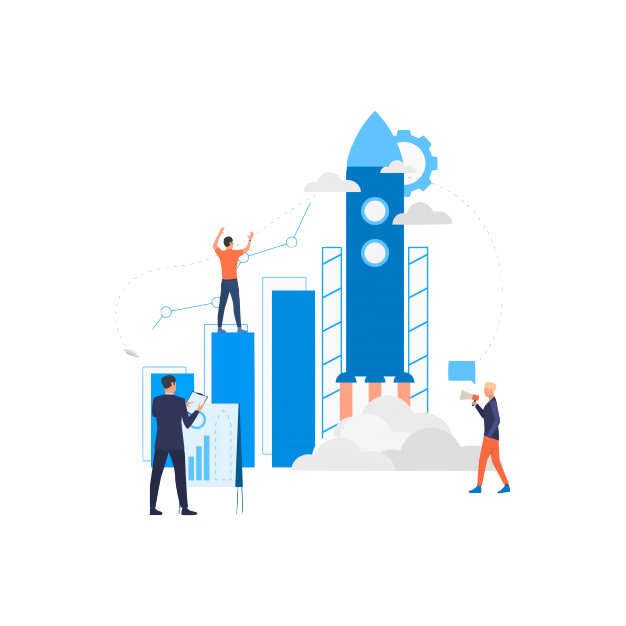
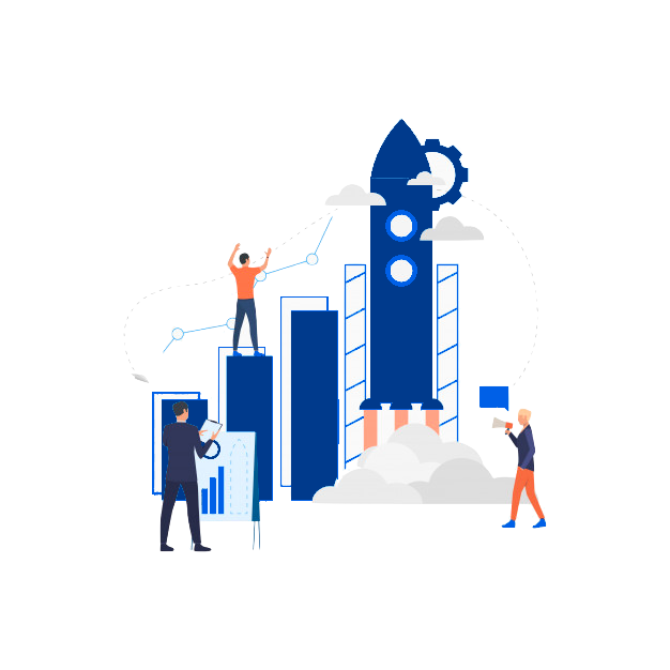
restyle

diff --git a/src/app/components/header/header.component.html b/src/app/components/header/header.component.html
@@ -1,5 +1,27 @@
 <nz-header style="padding: 0 10vw;" nz-row nzType="flex" nzJustify="space-between" nzAlign="middle">
-    <div [routerLink]="['/dashboard']" nz-title class="app-name"></div>
+        <svg data-v-423bf9ae="" xmlns="http://www.w3.org/2000/svg" viewBox="0 0 412 90" class="iconLeft app-name" [routerLink]="['/dashboard']">
+            <!---->
+            <!---->
+            <!---->
+            <g data-v-423bf9ae="" id="7f5189d3-e1ce-4852-92f1-09fdf3b522bc" fill="#ffffff"
+                transform="matrix(6.109979823280842,0,0,6.109979823280842,108.62275371831535,-17.993893058921103)">
+                <path
+                    d="M8.11 5.87C8.06 5.82 7.13 5.53 6.97 5.53C6.20 5.53 5.00 9.80 4.98 9.80C4.87 10.18 4.70 10.68 4.56 10.89C4.34 10.63 4.17 10.35 4.05 10.08C3.68 9.31 3.23 8.53 2.94 7.77C2.69 7.14 2.52 6.20 2.35 5.78C2.27 5.57 1.36 5.49 1.15 5.49C1.04 5.49 0.67 5.54 0.48 5.59L0.48 5.82C0.48 6.38 2.76 11.66 2.84 11.86C3.01 12.22 3.30 12.73 3.42 12.96C3.56 13.26 4.16 15.19 4.56 15.19C4.90 15.19 5.95 11.56 6.08 11.20C6.30 10.61 6.79 9.28 7.07 8.57C7.45 7.62 7.80 6.76 8.11 5.87ZM13.79 12.36C13.19 12.39 12.38 12.29 11.84 12.32C12.29 11.52 12.35 10.61 12.74 9.72C12.95 10.14 13.16 10.67 13.29 11.09C13.41 11.48 13.61 11.94 13.79 12.36ZM16.69 15.12C15.68 12.84 14.99 10.79 14.29 8.89C14.08 8.34 13.66 7.60 13.52 7.21C13.37 6.80 13.29 6.27 13.12 5.91C13.05 5.75 12.85 5.53 12.74 5.47C12.50 6.03 12.25 6.71 12.05 7.11C11.73 7.78 11.17 8.65 11.06 9.03C10.51 10.77 9.77 13.38 8.90 15.12L10.71 15.12C10.89 14.76 10.85 14.22 11.17 14.03C11.62 13.75 12.67 14 14.46 13.96C14.59 14.34 14.76 14.80 14.97 15.12L16.69 15.12ZM22.60 15.22C22.55 14.13 22.50 13.78 22.50 13.50C22.32 13.54 22.06 13.58 21.97 13.58C21.85 13.58 21.04 13.50 20.94 13.50C20.82 13.50 19.89 13.58 19.78 13.58C19.68 13.58 19.24 13.65 19.19 13.43C19.11 12.98 19.14 12.29 19.14 12.19C19.14 12.08 19.28 10.79 19.28 10.70L19.28 9.31C19.28 9.20 19.07 7.04 18.98 5.95C18.98 5.85 18.89 5.74 18.86 5.71C18.79 5.67 18.10 5.52 17.84 5.52C17.61 5.52 17.36 5.59 17.36 5.84C17.36 5.94 17.46 6.01 17.46 6.03C17.46 6.40 17.46 6.87 17.50 7.18L17.54 10.46C17.54 11.83 17.57 13.20 17.53 14.56C17.53 14.69 17.54 14.88 17.56 15.02C17.61 15.13 18.20 15.22 18.41 15.22C18.52 15.22 21.22 15.22 22.60 15.22ZM25.31 13.10C25.31 12.99 25.17 9.32 25.17 9.21L25.17 7.56C25.17 7.45 25.10 7.20 25.09 7.03C25.06 6.73 25.16 6.29 25.16 6.03C25.16 5.85 25.13 5.61 25.17 5.47C24.40 5.52 24.04 5.52 23.74 5.47C23.70 5.50 23.63 5.61 23.63 5.67C23.63 6.48 23.76 7.29 23.70 8.06C23.66 8.83 23.52 9.66 23.55 10.43C23.55 10.68 23.65 11.05 23.62 11.28C23.56 11.79 23.45 12.68 23.45 12.77C23.45 12.88 23.58 13.47 23.62 13.83C23.66 14.15 23.59 14.60 23.65 14.94C23.95 15.18 24.19 15.18 24.54 15.18C24.65 15.18 25.02 15.16 25.21 15.12C25.31 14.43 25.31 13.20 25.31 13.10ZM31.72 9.62C31.72 9.72 31.61 10.21 31.61 10.46C31.61 11.30 31.42 11.87 30.81 12.43C30.25 12.95 29.23 13.37 28.04 13.45C28.01 13.10 27.86 8.60 27.86 7.94C27.86 7.84 27.96 7.32 28.06 6.99C29.26 7.38 30.73 7.52 31.53 8.57C31.71 8.81 31.72 9.34 31.72 9.62ZM33.38 10.71C33.38 8.34 32.23 6.16 28.85 5.70C28.35 5.63 27.50 5.40 26.59 5.40C26.47 5.40 26.43 5.46 26.40 5.50C26.29 6.09 26.17 7.20 26.17 7.29C26.17 7.41 26.47 11.28 26.47 11.40C26.47 13.51 26.21 14.31 26.21 14.56L26.21 15.06L28.76 15.06C28.87 15.06 29.89 14.78 30.24 14.69C33.11 13.90 33.38 12.46 33.38 10.71ZM40.92 5.67C39.77 5.60 37.66 5.46 37.55 5.46C37.44 5.46 35.38 5.66 34.34 5.78C34.34 6.19 34.24 6.96 34.24 7.06C34.24 7.17 34.37 11.28 34.41 13.36C34.41 13.79 34.27 14.62 34.30 15.02C34.34 15.06 34.36 15.12 34.43 15.16L40.85 15.16L40.85 14.92C40.85 14.81 40.74 14.70 40.73 14.60C40.70 14.34 40.71 14.03 40.66 13.83C40.49 13.79 40.29 13.73 40.15 13.73C38.18 13.65 37.32 13.73 37.21 13.73C37.13 13.73 36.09 13.65 35.91 13.48C36.29 10.79 35.62 11.03 37.81 11.03C37.93 11.03 39.16 11.21 39.27 11.21L40.61 11.21C40.80 11.09 40.81 10.54 40.81 10.35C40.81 10.23 40.81 9.87 40.75 9.67L40.80 9.62C39.62 9.67 38.78 9.69 38.67 9.69C38.56 9.69 37.48 9.60 37.37 9.60C37.25 9.60 36.32 9.73 36.20 9.73C36.12 9.73 35.87 9.59 35.87 9.42C35.87 9.31 35.95 9.25 35.95 9.17C35.97 8.61 35.97 7.83 36.08 7.27C36.81 7.04 36.93 7.08 37.44 7.08L40.18 7.17C41.22 7.17 40.87 6.97 40.92 5.67ZM46.65 12.36C46.05 12.39 45.23 12.29 44.70 12.32C45.15 11.52 45.21 10.61 45.60 9.72C45.81 10.14 46.02 10.67 46.14 11.09C46.27 11.48 46.47 11.94 46.65 12.36ZM49.55 15.12C48.54 12.84 47.85 10.79 47.15 8.89C46.94 8.34 46.52 7.60 46.38 7.21C46.23 6.80 46.14 6.27 45.98 5.91C45.91 5.75 45.71 5.53 45.60 5.47C45.36 6.03 45.11 6.71 44.91 7.11C44.59 7.78 44.03 8.65 43.92 9.03C43.37 10.77 42.63 13.38 41.76 15.12L43.57 15.12C43.75 14.76 43.71 14.22 44.03 14.03C44.48 13.75 45.53 14 47.32 13.96C47.45 14.34 47.61 14.80 47.82 15.12L49.55 15.12Z">
+                </path>
+            </g>
+            <!---->
+            <g data-v-423bf9ae="" id="71b79b49-f62b-43e4-8219-807bcd00ceac"
+                transform="matrix(1.1111111111111112,0,0,1.1111111111111112,-9.755552079942497,-10.055555555555557)"
+                stroke="none" fill="#ffffff">
+                <path
+                    d="M68.6 36.5c-.4 0-.8-.2-1.1-.4L63 31.5c-.6-.6-.6-1.5 0-2.1.6-.6 1.5-.6 2.1 0l2.9 2.9 5.8-13.9c.3-.8 1.2-1.1 2-.8.8.3 1.1 1.2.8 2l-6.6 16c-.2.5-.6.8-1.1.9h-.3zM50.1 79.6l-10.7-33c3.6-2.9 5.9-7.3 5.9-12.3 0-8.7-7.1-15.8-15.9-15.8s-15.9 7.1-15.9 15.8c0 5 2.3 9.4 5.9 12.3l-10.5 33c0 .1-.1.3-.1.5 0 5.8 9.1 10.4 20.7 10.4s20.7-4.6 20.7-10.4c-.1-.2-.1-.3-.1-.5zM16.6 34.3c0-7 5.8-12.8 12.9-12.8s12.9 5.7 12.9 12.8c0 7-5.8 12.8-12.9 12.8s-12.9-5.8-12.9-12.8zm12.9 53.2c-10.2 0-17.4-3.8-17.6-7.2l10.3-32c2.2 1.1 4.7 1.8 7.3 1.8 2.6 0 5.1-.7 7.3-1.8l10.3 32c-.3 3.4-7.4 7.2-17.6 7.2z">
+                </path>
+                <path
+                    d="M49.5 49.1c-.5 0-1.1-.3-1.3-.8-.3-.5-.2-1.2.1-1.6l6.1-7.7c-4.1-3.2-6.4-7.6-6.4-12.3 0-9.5 9.7-17.2 21.6-17.2 11.9 0 21.6 7.7 21.6 17.2 0 18.5-39.8 22.2-41.5 22.4h-.2zm20.1-36.6C59.4 12.5 51 18.9 51 26.8c0 4.1 2.3 8 6.4 10.8.3.2.6.6.6 1 .1.4 0 .8-.3 1.2l-4.8 6c3.8-.5 10-1.6 16.2-3.5 8.6-2.6 19-7.5 19-15.5.1-7.9-8.3-14.3-18.5-14.3z">
+                </path>
+            </g>
+            <!---->
+        </svg>
     <a *ngIf="!getToken(); else loggedTemplate" href="https://mvp-validator.herokuapp.com/auth/google/">
         <button nz-button style="background-color: #d62d20; display: flex; align-items: center;">
             <i style="color: whitesmoke; margin-right: -8px;" nz-icon nzType="google-plus" nzTheme="outline"></i>

diff --git a/src/theme.less b/src/theme.less
@@ -6,12 +6,12 @@
 @html-selector: html;
 
 // -------- Colors -----------
-@primary-color: @blue-6;
-@info-color: @blue-6;
+@primary-color: @blue-9;
+@info-color: @blue-9;
 @success-color: @green-6;
-@processing-color: @blue-6;
-@error-color: @red-6;
-@highlight-color: @red-6;
+@processing-color: @blue-9;
+@error-color: @red-8;
+@highlight-color: @red-8;
 @warning-color: @gold-6;
 @normal-color: #eeeeee;
 @white: #fff;
@@ -36,9 +36,9 @@
 // ---
 
 // Background color for `<body>`
-@body-background: #fff;
+@body-background: whitesmoke;
 // Base background color for most components
-@component-background: #fff;
+@component-background: whitesmoke;
 @font-family: -apple-system, BlinkMacSystemFont, 'Segoe UI', 'PingFang SC', 'Hiragino Sans GB',
 'Microsoft YaHei', 'Helvetica Neue', Helvetica, Arial, sans-serif, 'Apple Color Emoji',
 'Segoe UI Emoji', 'Segoe UI Symbol';
@@ -246,7 +246,7 @@
 
 // Layout
 @layout-body-background: #f0f2f5;
-@layout-header-background: #1890ff;
+@layout-header-background: @blue-9;
 @layout-footer-background: @layout-body-background;
 @layout-header-height: 64px;
 @layout-header-padding: 0 50px;

diff --git a/src/app/components/main/main.component.html b/src/app/components/main/main.component.html
@@ -3,8 +3,8 @@
 <div class="main-wrapper">
     <nz-content class="main-content">
         <div nz-row>
-            <div class="text-wrapper" nz-col nzXs="24" nzSm="24" nzMd="24" nzLg="10" nzXl="10">
-                <h1 nz-title>
+            <div class="text-wrapper" nz-col nzXs="24" nzSm="24" nzMd="24" nzLg="12" nzXl="12">
+                <h1 nz-title class="main-title">
                     Validate your idea
                 </h1>
                 <div nz-text nzType="secondary" class="description">
@@ -19,9 +19,8 @@
                     In less then 15 mins
                 </div>
                 <br>
-                <button nz-button nzType="primary" [routerLink]="['/theme']">Get started</button>
+                <button nz-button nzType="primary" class="main-action-button" [routerLink]="['/theme']">Get started</button>
             </div>
-            <div nz-col nzXs="0" nzSm="0" nzMd="0" nzLg="2" nzXl="2"></div>
             <div class="main-image" nz-col nzXs="24" nzSm="24" nzMd="24" nzLg="12" nzXl="12"></div>
         </div>
     </nz-content>

diff --git a/src/app/components/customer-dashboard/customer-dashboard.component.scss b/src/app/components/customer-dashboard/customer-dashboard.component.scss
@@ -16,9 +16,9 @@
     padding: 10px;
     margin-right: 5px;
     font-size: 40px;
-    border: 2px #1890ff solid;
+    border: 2px #003a8c solid;
     border-radius: 50%;
-    color: #1890ff;
+    color: #003a8c;
   }
   .secondary-header-secondary-text {
     font-size: 11px;
@@ -32,7 +32,7 @@
     line-height: 1.1;
     margin: 0;
     font-weight: 300;
-    color: #1890ff;
+    color: #003a8c;
   }
 }
 
@@ -48,8 +48,8 @@
   .secondary-navigation-item {
     height: 145px;
     width: 145px;
-    border: 1px #1890ff solid;
-    color: #1890ff;
+    border: 1px #003a8c solid;
+    color: #003a8c;
     background-color: #fff;
   }
 
@@ -57,7 +57,7 @@
     cursor: pointer;
     color: #fff;
     border: 1px #fff solid;
-    background-color: #1890ff;
+    background-color: #003a8c;
   }
 }
 

diff --git a/src/app/components/project-management/project-management.component.html b/src/app/components/project-management/project-management.component.html
@@ -29,7 +29,7 @@
                 <input [formControl]="colorControl" style="height: 0; width: 0; visibility: hidden;" #colorPickerInput
                     [(colorPicker)]="composedProject.theme" (colorPickerChange)="changeColor($event)"
                     [cpPosition]="'bottom'" [cpOutputFormat]="'hsla'" />
-                <i style="cursor: pointer; margin-left: 10px; color: #1890ff" (click)="colorPickerInput.click()" nz-icon
+                <i style="cursor: pointer; margin-left: 10px; color: #003a8c" (click)="colorPickerInput.click()" nz-icon
                     nzType="bg-colors" nzTheme="outline"></i>
             </nz-descriptions-item>
             <nz-descriptions-item nzTitle="Title">

diff --git a/src/app/components/project-setup/project-setup.component.html b/src/app/components/project-setup/project-setup.component.html
@@ -105,7 +105,7 @@
                                         [(colorPicker)]="customColorScheme" [cpPosition]="'bottom'"
                                         [cpOutputFormat]="'hsl'" />
                                 </div>
-                                <i style="cursor: pointer; color: #1890ff;" (click)="colorPickerInput.click()" nz-icon
+                                <i style="cursor: pointer; color: #003a8c;" (click)="colorPickerInput.click()" nz-icon
                                     nzType="bg-colors" nzTheme="outline"></i>
                             </div>
                         </nz-card>

diff --git a/src/app/components/main/main.component.scss b/src/app/components/main/main.component.scss
@@ -11,15 +11,25 @@
   padding-top: 100px;
 }
 
+.main-title {
+  font-size: $main-title-text;
+}
+
 .description {
   line-height: 35px;
-  font-size: $main-text;
+  font-size: $main-text-bigger;
+}
+
+.main-action-button {
+  width: 150px;
+  height: 50px;
+  font-size: $main-text-bigger;
 }
 
 .main-image {
   height: 70vh;
   background-image: url("../../../assets/images/main_image.png");
-  background-size: contain;
+  background-size: cover;
   background-repeat: no-repeat;
   background-position: center;
 }

diff --git a/src/app/components/header/header.component.scss b/src/app/components/header/header.component.scss
@@ -1,13 +1,8 @@
 @import "../../../styles.scss";
 
 .app-name {
-  background-image: url("../../../assets/images/cover.png");
-  background-size: cover;
-  background-repeat: no-repeat;
-  background-position: center;
   height: 100%;
-  width: 200px;
-  margin-left: -30px;
+  width: 165px;
   cursor: pointer;
 }
 

diff --git a/src/styles.scss b/src/styles.scss
@@ -1,6 +1,7 @@
+$main-title-text: 45px;
 $title-text: 40px;
-$heading-text: 26px;
-$main-text-bigger: 22px;
+$heading-text: 27px;
+$main-text-bigger: 23px;
 $main-text: 18px;
 html, body { height: 100%; }
 body { margin: 0; font-family: Roboto, "Helvetica Neue", sans-serif; }

diff --git a/src/app/app.component.scss b/src/app/app.component.scss
@@ -1,4 +1,5 @@
 .app-wrapper {
     height: 100vh;
+    background-color: whitesmoke;
 }
 
